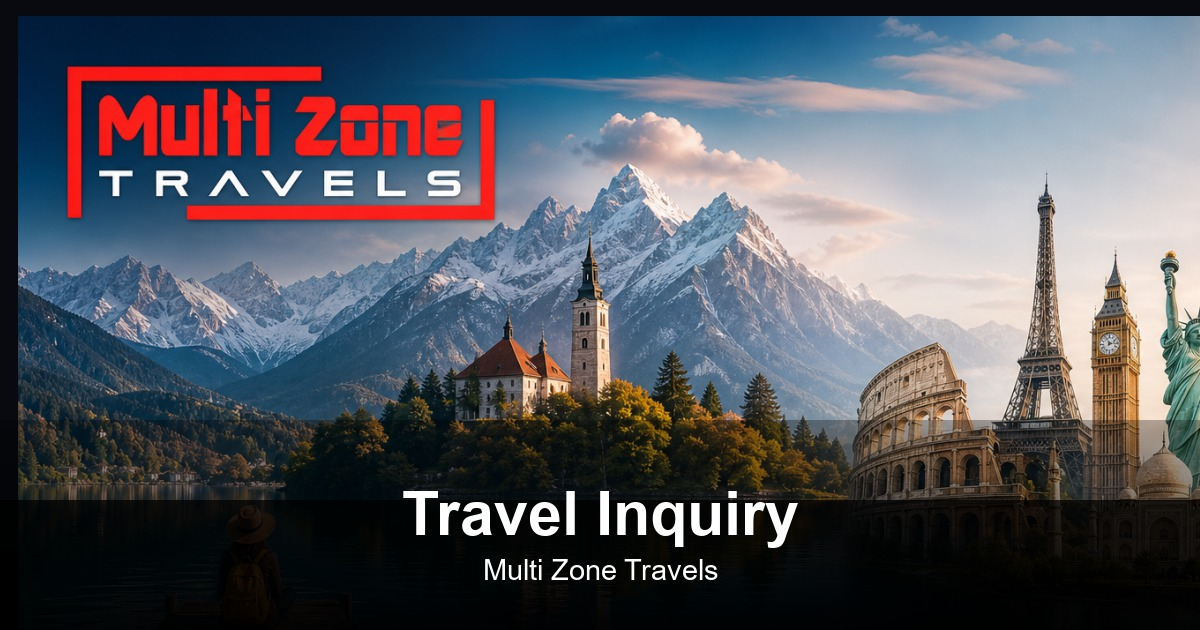
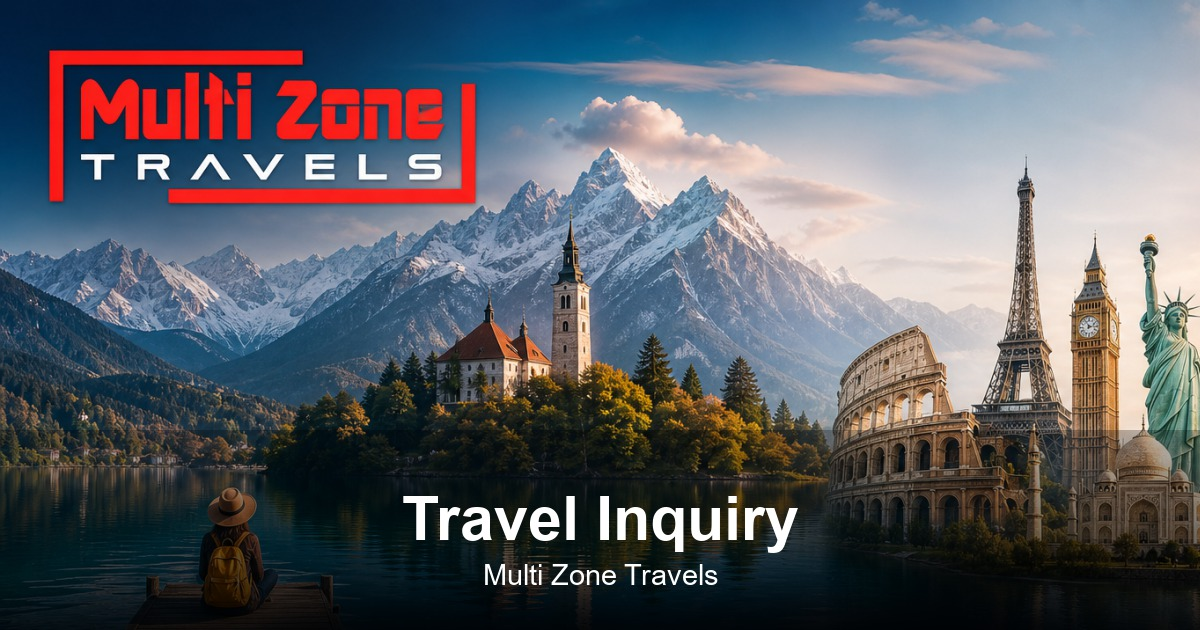
wp img

diff --git a/public/lead_intake.php b/public/lead_intake.php
@@ -51,7 +51,7 @@ $adminAssetBase = crmPublicAdminAssetBase();
 $shareBrandName = 'Multi Zone Travels';
 $ogTitle = 'Travel Preference Form | Multi Zone Travels';
 $ogDescription = 'Share your travel plans with Multi Zone Travels. Complete this short preference form so we can prepare a customized itinerary and quotation for you.';
-$ogImageUrl = function_exists('crmIntakeShareImageUrl') ? crmIntakeShareImageUrl() : 'https://multizonetravels.com/img/travel-inquiry-og.jpg?v=20260827g';
+$ogImageUrl = function_exists('crmIntakeShareImageUrl') ? crmIntakeShareImageUrl() : 'https://multizonetravels.com/img/travel-inquiry-og.jpg?v=20260827h';
 $ogUrl = function_exists('crmIntakeCanonicalPageUrl') ? crmIntakeCanonicalPageUrl($token) : '';
 $ogImageWidth = 1200;
 $ogImageHeight = 630;

diff --git a/admin/crm/leads.php b/admin/crm/leads.php
@@ -4739,7 +4739,7 @@ foreach ($destinationLookup as $destId => $destName) {
         var link = String(url || $('#sendLinkUrl').val() || '').trim();
         // WhatsApp caches link previews by exact URL. Bump this when OG title/image
         // change so the rich card (title + image) is re-scraped instead of the bare domain.
-        var previewKey = 'wa27g';
+        var previewKey = 'wa27h';
         if (link) {
             link = link.replace(/([?&])preview=[^&]*/g, '$1').replace(/[?&]$/, '');
             link += (link.indexOf('?') >= 0 ? '&' : '?') + 'preview=' + previewKey;

diff --git a/admin/crm/includes/lead_intake_db.php b/admin/crm/includes/lead_intake_db.php
@@ -220,7 +220,7 @@ function crmIntakeFallbackLogoUrl()
 function crmIntakeShareImageUrl()
 {
     // Bump when replacing the OG asset so WhatsApp re-scrapes the preview.
-    $version = '20260827g';
+    $version = '20260827h';
     $host = strtolower(preg_replace('/:\d+$/', '', (string) ($_SERVER['HTTP_HOST'] ?? '')) ?: '');
     if (crmIntakeIsLocalHost($host)) {
         $scheme = (!empty($_SERVER['HTTPS']) && $_SERVER['HTTPS'] !== 'off') ? 'https' : 'http';
